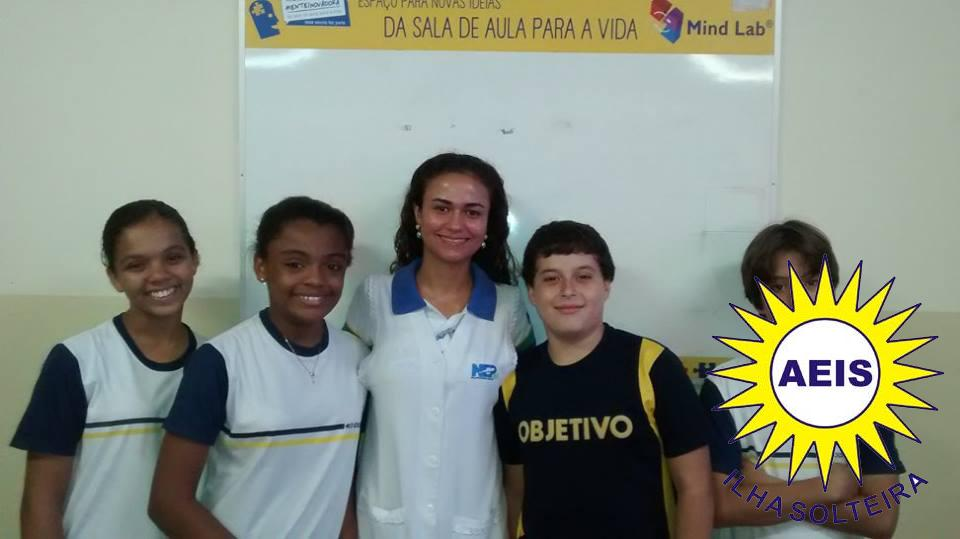
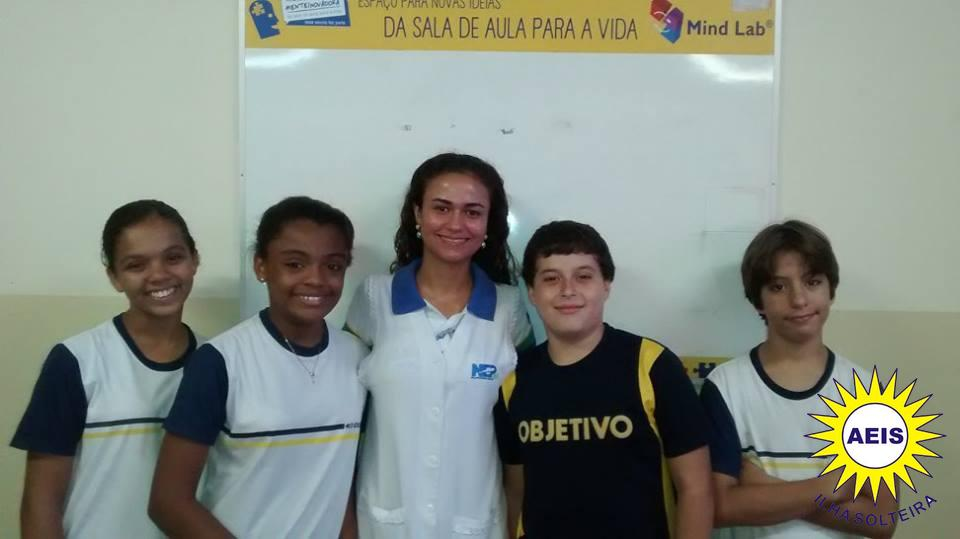
<feat> Implement signature size

Changed region(s): [[0.7188, 0.475, 1.0, 0.9796]]

diff --git a/Assinatura.py b/Assinatura.py
@@ -19,11 +19,13 @@ def createSignatureImage():
     saveNewImage()
 
 def getParams():
-    global signature, figure, output
+    global signature, figure, output, newSignatureWidth, newSignatureHeight
 
     signature = "logos/logo.png"
     figure = "images/image.jpg"
     output = "output/image.jpg"
+    newSignatureWidth = None
+    newSignatureHeight = None
 
     for i in range(1, len(sys.argv)):
         if (sys.argv[i][0] == '-'):
@@ -33,6 +35,10 @@ def getParams():
                 figure = sys.argv[i + 1]
             if (sys.argv[i][1] == 'o'):
                 output = sys.argv[i + 1]
+            if (sys.argv[i][1] == 'w'):
+                newSignatureWidth = int(sys.argv[i + 1])
+            if (sys.argv[i][1] == 'h'):
+                newSignatureHeight = int(sys.argv[i + 1])
 
 def openImages():
     global imgSignature, imgFigure
@@ -54,8 +60,31 @@ def setSpaces():
 
     signatureWidth, signatureHeight, figurWidth, figureHeight = getSizes()
 
+    if (newSignatureWidth):
+        signatureWidth, signatureHeight = resizeSignareByWidth(signatureWidth, signatureHeight)
+    if (newSignatureHeight):
+        signatureWidth, signatureHeight = resizeSignareByWidth(signatureWidth, signatureHeight)
+
     spaceWidth = (figurWidth - signatureWidth) - marginWidth
     spaceHeight = (figureHeight - signatureHeight) - marginHeight
+
+def resizeSignareByWidth(signatureWidth, signatureHeight):
+    widthPorcent = newSignatureWidth / signatureWidth
+
+    size = int(newSignatureWidth), int(signatureHeight * widthPorcent)
+
+    imgSignature.thumbnail(size, Image.ANTIALIAS)
+
+    return size
+
+def resizeSignareByHeight(signatureWidth, signatureHeight):
+    heightPorcent = newSignatureHeight / signatureHeight
+
+    size = int(signatureWidth * heightPorcent), int(newSignatureHeight)
+
+    imgSignature.thumbnail(size, Image.ANTIALIAS)
+
+    return size
 
 def insertSignatureInImage():
     imgFigure.paste(imgSignature, (spaceWidth, spaceHeight), imgSignature)
